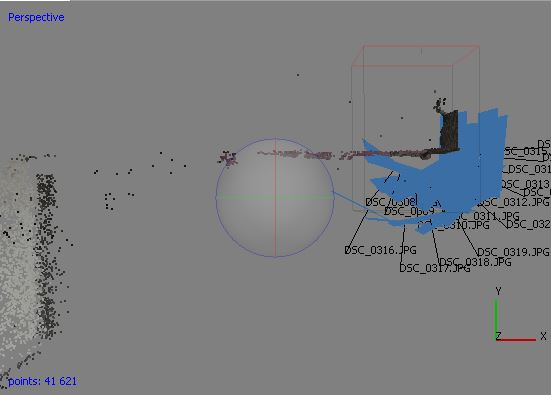
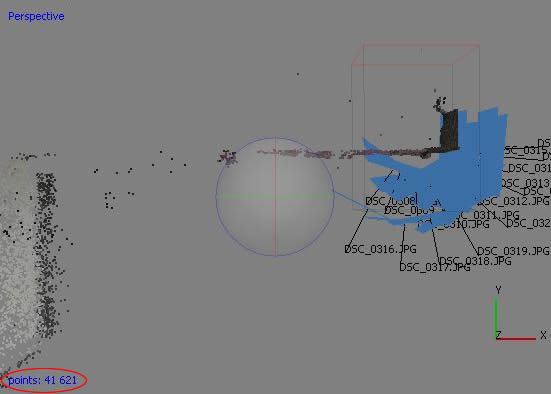
Photoscan.md update

diff --git a/tutorials/photoscan.md b/tutorials/photoscan.md
@@ -4,7 +4,7 @@ title: Photoscan
 meta: Opis procesu rekonstrukcji modeli 3D ze zdjęć przy pomocy programu Photoscan
 sources:
     - url: http://www.agisoft.ru/products/photoscan
-      title: Oficjalna strona Photoscana
+      title: Oficjalna strona programu Photoscan
     - url: http://www.agisoft.ru/pdf/photoscan_1_0_en.pdf
       title: Manual do wersji Standard 1.0
 page-type: tutorial
@@ -53,7 +53,7 @@ Aby rozpocząć kalibrację sceny, dodajemy zdjęcia do przestrzeni roboczej `Wo
 Tu ustawiamy parametry tego kroku - `Accuracy` i `Preselection`, jak na screenshocie. Następnie rozwijamy menu `Advanced` i ustawiamy wartość parametru `Point limit`. Im więcej punktów, tym dokładniej jest wyliczona pozycja aparatu dla każdego zdjęcia. W tym przypadku ustawiliśmy 180 000 punktów, im więcej punktów tym dokłądniejsza kalibracja, lecz dłuższe obliczenia. Nie znaczy to że program znajdzie tyle punktów, ile ustawilismy - wszystko zależy od ilości, jakości zdjęć oraz od rozmiaru sceny. Liczba odnalezionych punktów referencyjnych może być więc mniejsza niz zadana wartość (Fig. 2.2).
 
 ![alt text](photoscan_003.jpg "Liczba odnalezionych punktów referencyjnych")
-<sup>Fig. 2.2 Liczba odnalezionych punktów referencyjnych (lewy-dolny róg)</sup>
+<sup>Fig. 2.2 Liczba odnalezionych punktów referencyjnych</sup>
 
 Górną granicą rozsądku jest ok 500 000 punktów dla większych scen / obiektów z dużą ilością zdjęć. Ustalenie wartości `Point limit` na poziomie ok 180 000 wydaje być się dobrym punktem startowym. Scenę zawsze można przeliczyć, jeżeli okaże się że program odnalazł liczbę punktów równą wartości tego parametru (czyli że możliwa jest dokąłdniejsza kalibracja przy zwiększeniu wartości tego parametru).
 
